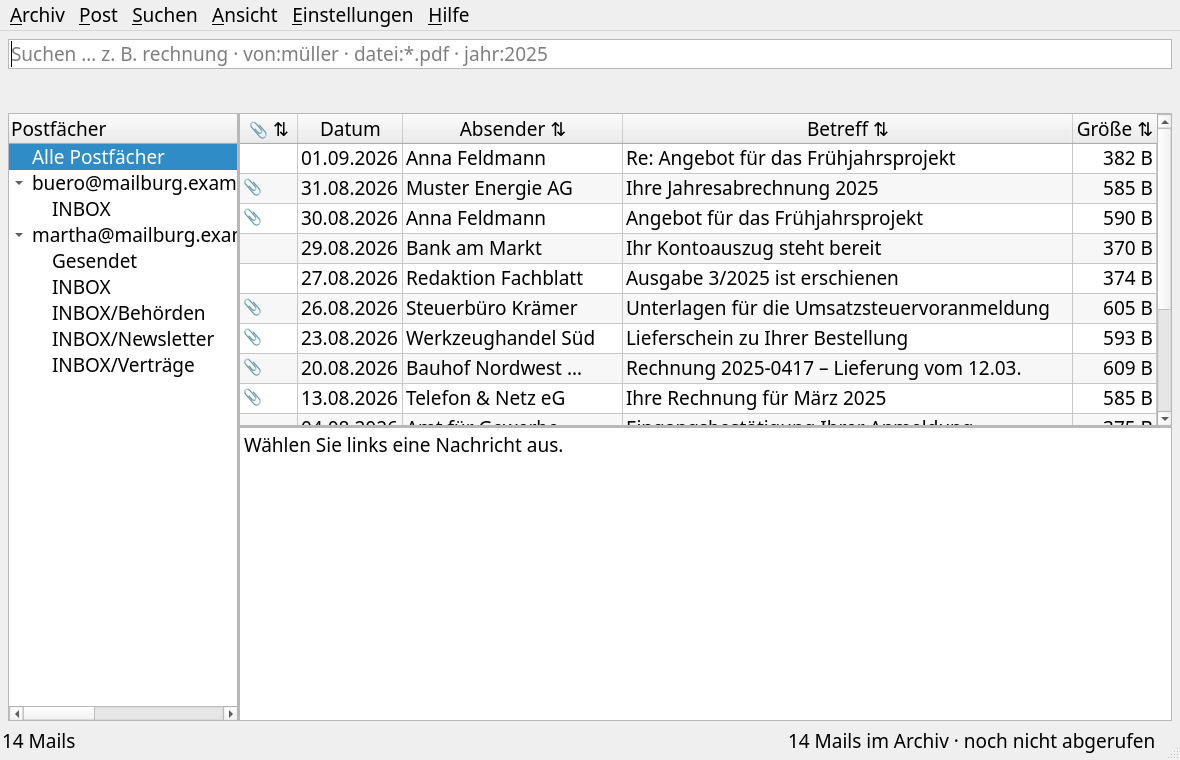
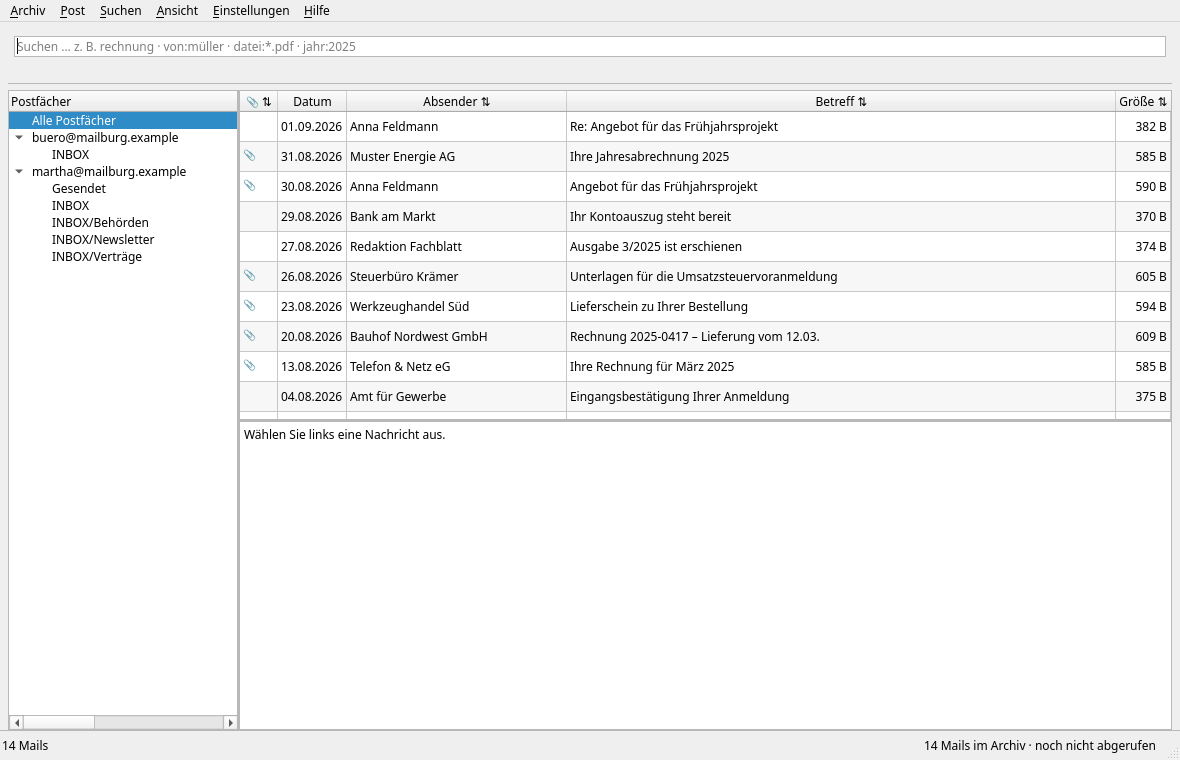
Suchbereich und Statuszeile abgesetzt
Damit hat das Hauptfenster vier erkennbare Bereiche statt einer Flaeche.

**Suchfeld und Trefferzeile sind jetzt ein Bereich, nicht zwei.** Sie
gehoeren zusammen - oben die Frage, darunter die Antwort - und standen
bisher auf derselben Flaeche wie der Inhalt darunter. Der Blick fand
keinen Anfang.

**Die Statuszeile bekommt eine obere Kante.** Sie traegt die eine
Angabe, die immer stimmen muss: wie viele Mails im Archiv liegen und
wann zuletzt abgerufen wurde. Ohne Kante schwamm sie am unteren Rand,
als gehoerte sie zum Inhalt.

Nebenbei: QStatusBar::item auf border:none. Qt zeichnet sonst je
Element einen eigenen Rahmen - drei Kaestchen in einer Zeile, die eine
durchgehende Leiste sein soll.

Wie zuvor stammen alle Farben aus der Systempalette; der Waechtertest
prueft das Blatt weiterhin Hexwert fuer Hexwert.

Im dunklen Thema nachgesehen: Dort tragen die Kanten sogar besser als
im hellen (2,59 gegen 1,98).

1459 Tests.

Changed region(s): [[0.0, 0.1211, 1.0, 0.6053], [0.0, 0.0, 1.0, 0.0908], [0.0, 0.9079, 1.0, 0.9987]]

diff --git a/mailburg/ui/farben.py b/mailburg/ui/farben.py
@@ -132,7 +132,22 @@ def bereichsrahmen() -> str:
         # selbst vorsieht - im hellen 1,15, im dunklen entsprechend.
         # Allein wäre das zu wenig, deshalb die Kante darunter.
         f"QLabel#mailkopf {{ background: {_rolle(QPalette.Window)}; "
-        f"border-bottom: 1px solid {strich}; }}"
+        f"border-bottom: 1px solid {strich}; }}\n"
+        # **Der Suchbereich oben.** Suchfeld und Trefferzeile gehören
+        # zusammen - oben die Frage, darunter die Antwort - und beide
+        # standen auf derselben Fläche wie der Inhalt darunter. Eine
+        # Kante darunter gibt dem Blick einen Anfang.
+        f"QWidget#suchbereich {{ background: {_rolle(QPalette.Window)}; "
+        f"border-bottom: 1px solid {strich}; }}\n"
+        # **Die Statuszeile unten.** Sie trägt die eine Angabe, die
+        # immer stimmen muss: wie viele Mails im Archiv liegen und wann
+        # zuletzt abgerufen wurde. Ohne obere Kante schwamm sie am
+        # unteren Rand, als gehörte sie zum Inhalt.
+        f"QStatusBar {{ border-top: 1px solid {strich}; }}\n"
+        # Qt zeichnet sonst je Element noch einen eigenen Rahmen - drei
+        # Kästchen in einer Zeile, die eine durchgehende Leiste sein
+        # soll.
+        f"QStatusBar::item {{ border: none; }}"
     )
 
 

diff --git a/mailburg/ui/hauptfenster.py b/mailburg/ui/hauptfenster.py
@@ -206,8 +206,21 @@ class Hauptfenster(QMainWindow):
         meldungszeile.addWidget(self.suchmeldung, 1)
         meldungszeile.addWidget(self.ocr_hinweis)
 
-        aufbau.addWidget(self.suchfeld)
-        aufbau.addLayout(meldungszeile)
+        # **Suchfeld und Trefferzeile sind ein Bereich, nicht zwei.**
+        # Sie gehören zusammen: oben die Frage, darunter die Antwort.
+        # Bisher standen beide auf derselben Fläche wie der Inhalt
+        # darunter, und der Blick fand keinen Anfang.
+        #
+        # Der Name hängt an der Regel in ``farben.bereichsrahmen()``.
+        self.suchbereich = QWidget()
+        self.suchbereich.setObjectName("suchbereich")
+        suchaufbau = QVBoxLayout(self.suchbereich)
+        suchaufbau.setContentsMargins(6, 6, 6, 2)
+        suchaufbau.setSpacing(2)
+        suchaufbau.addWidget(self.suchfeld)
+        suchaufbau.addLayout(meldungszeile)
+
+        aufbau.addWidget(self.suchbereich)
         aufbau.addWidget(teiler, 1)
         self.setCentralWidget(mitte)
 
